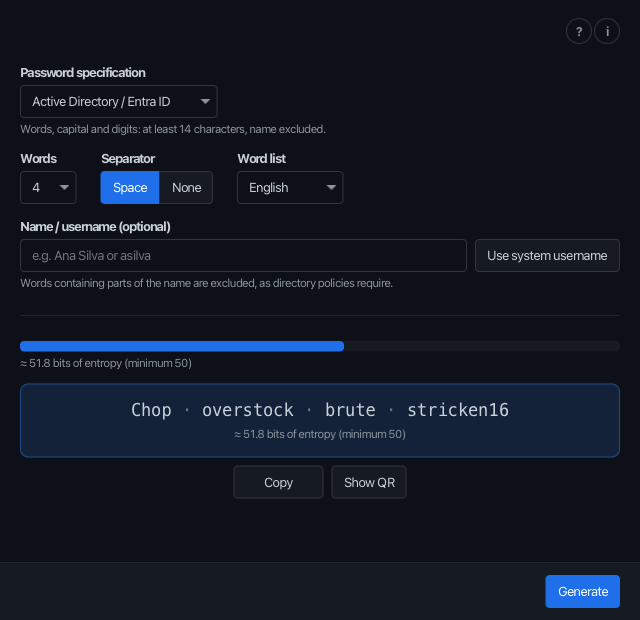
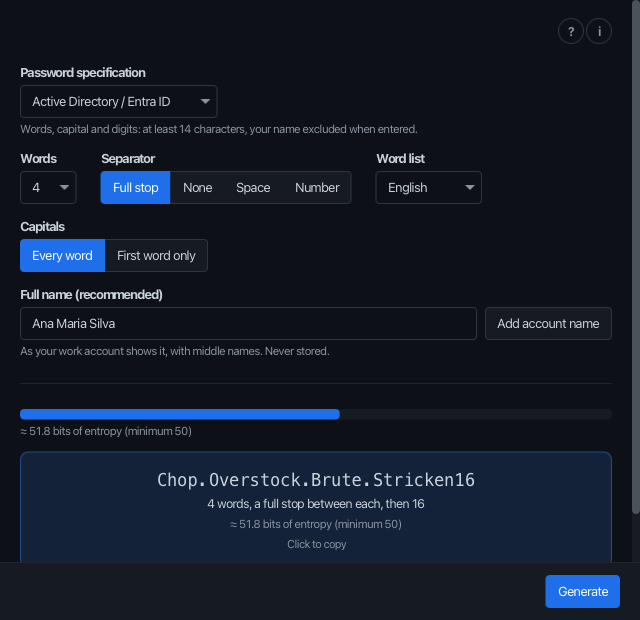
Publish site from password-generator@27d23bb

diff --git a/index.html b/index.html
@@ -37,9 +37,17 @@
       <li>something everyone was told to make impossible to remember.</li></ol>
   <p class="muted"><em>A good one resolves the contradiction: impossible to guess, easy to type — even on the wrong keyboard.</em></p>
 </section>
-<section class="shot">
-  <img class="only-light" src="assets/app-light.png" alt="Password Generator with a fresh passphrase, light theme" width="640" height="620">
-  <img class="only-dark" src="assets/app-dark.png" alt="Password Generator with a fresh passphrase, dark theme" width="640" height="620">
+<section class="shots">
+  <figure class="shot">
+    <img class="only-light" src="assets/app-light.png" alt="Password Generator desktop window with a fresh passphrase, light theme" width="640" height="620">
+    <img class="only-dark" src="assets/app-dark.png" alt="Password Generator desktop window with a fresh passphrase, dark theme" width="640" height="620">
+    <figcaption>The desktop app</figcaption>
+  </figure>
+  <figure class="shot phone">
+    <img class="only-light" src="assets/pwa-light.png" alt="The web app on a phone with a fresh passphrase, light theme" width="375" height="812">
+    <img class="only-dark" src="assets/pwa-dark.png" alt="The web app on a phone with a fresh passphrase, dark theme" width="375" height="812">
+    <figcaption>The web app on a phone</figcaption>
+  </figure>
 </section>
 <section class="features">
   <div class="card"><h3>Safe on every keyboard</h3><p>Letters and digits that sit on the same physical key on QWERTY, QWERTZ and AZERTY layouts — so a password typed into a console set to the wrong layout still comes out right. The one exception, the full stop between words, can be swapped for none, a space or a digit.</p></div>

diff --git a/style.css b/style.css
@@ -152,7 +152,18 @@ main { max-width: 860px; margin: 0 auto; padding: 24px 20px 48px; }
 .card p { margin: 0; font-size: 14.5px; color: var(--fg-muted); }
 .card p a { color: var(--accent); }
 
-.shot { text-align: center; margin: 32px 0; }
+/* The two screenshots side by side, the phone narrower; they stack on a
+   narrow screen. */
+.shots {
+  display: flex;
+  flex-wrap: wrap;
+  justify-content: center;
+  align-items: flex-start;
+  gap: 24px;
+  margin: 32px 0;
+}
+.shot { text-align: center; margin: 0; flex: 1 1 420px; max-width: 640px; }
+.shot.phone { flex: 0 1 260px; }
 .shot img {
   max-width: 100%;
   height: auto;
@@ -160,6 +171,8 @@ main { max-width: 860px; margin: 0 auto; padding: 24px 20px 48px; }
   border-radius: 10px;
   box-shadow: var(--shadow);
 }
+.shot.phone img { border-radius: 18px; }
+.shot figcaption { margin-top: 8px; font-size: 13.5px; color: var(--fg-muted); }
 .only-dark { display: none; }
 @media (prefers-color-scheme: dark) {
   .only-light { display: none; }
